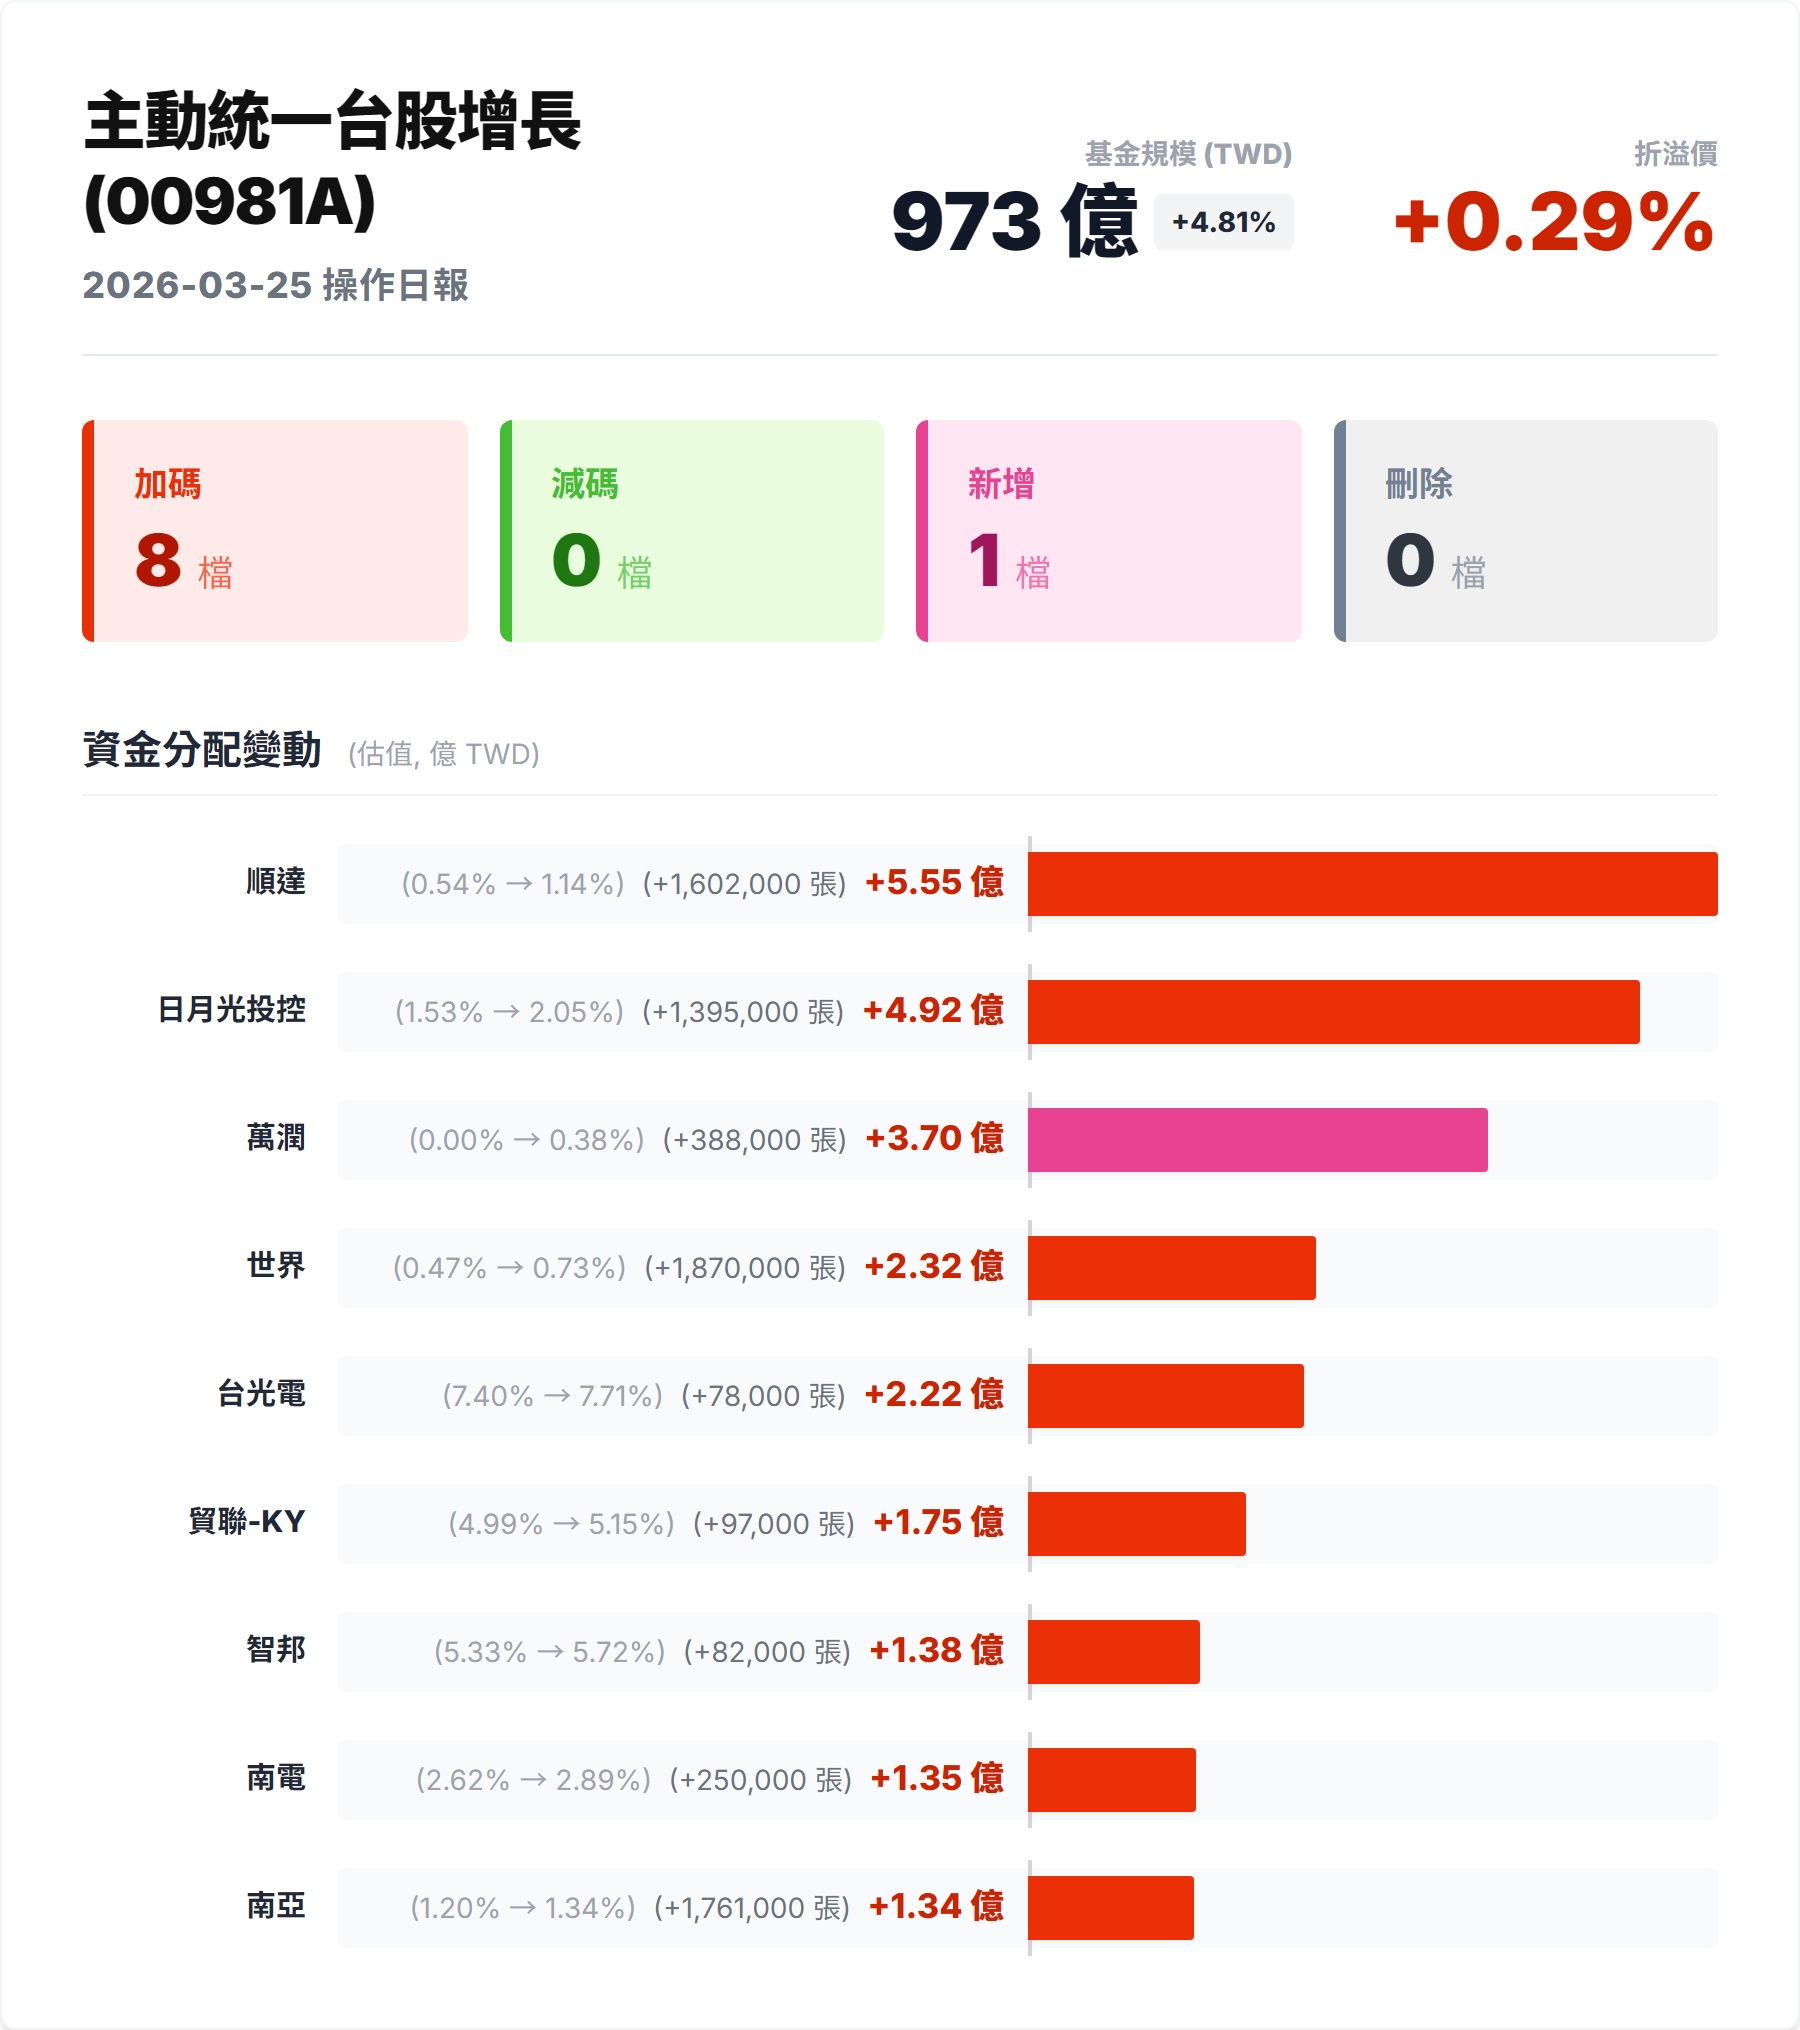
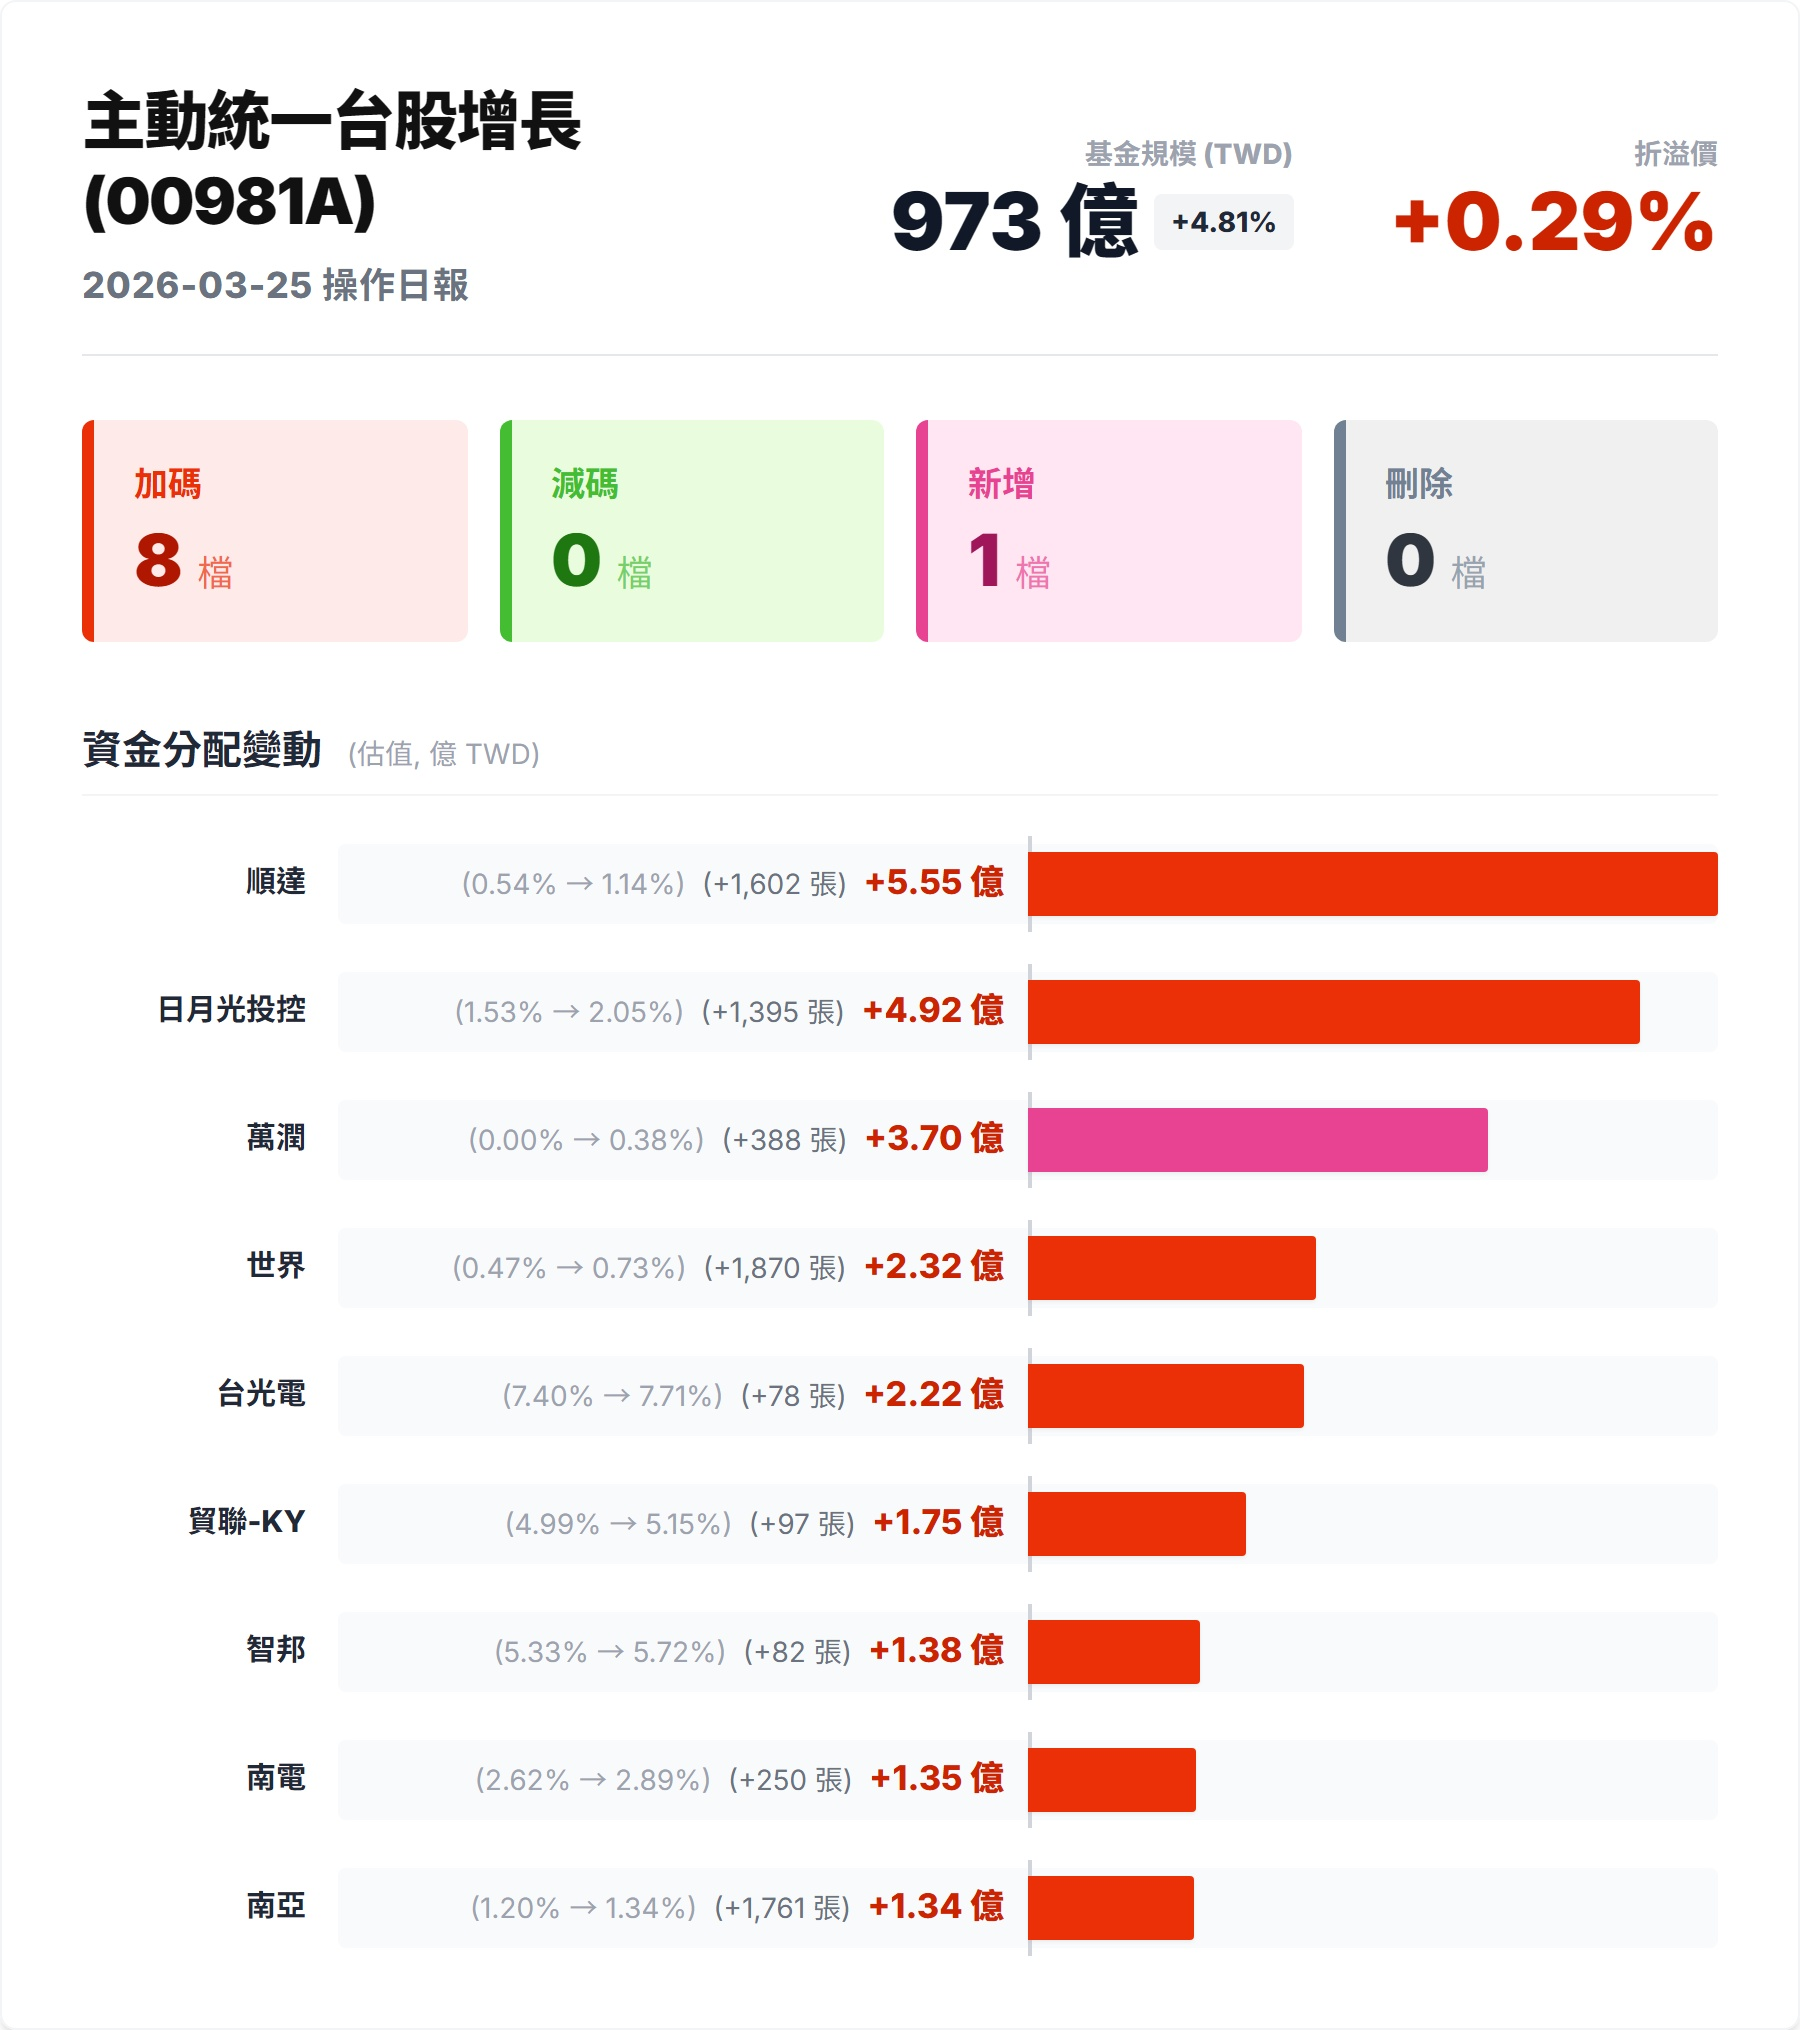
Convert raw shares to lots (除以1000) for UI display

diff --git a/scripts/generate_etf_summary.py b/scripts/generate_etf_summary.py
@@ -162,7 +162,7 @@ def render_html(title, data_curr, date_curr, data_prev, date_prev, out_html):
                     </div>
                     <div class="w-1/2 z-10 pl-3 flex items-center">
                         <span class="font-extrabold text-[17px] text-[#258C18] whitespace-nowrap">{fmt_money(r['am'])}</span>
-                        <span class="text-gray-500 text-sm font-medium ml-2 whitespace-nowrap">({sign}{r['sd']:,} 張)</span>
+                        <span class="text-gray-500 text-sm font-medium ml-2 whitespace-nowrap">({sign}{r['sd']//1000:,} 張)</span>
                         <span class="text-gray-400 text-sm ml-2 hidden sm:inline whitespace-nowrap">({r['pw']:.2f}% &rarr; {r['cw']:.2f}%)</span>
                     </div>
                 """
@@ -170,7 +170,7 @@ def render_html(title, data_curr, date_curr, data_prev, date_prev, out_html):
                 html += f"""
                     <div class="w-1/2 z-10 pr-3 flex items-center justify-end">
                         <span class="text-gray-400 text-sm mr-2 hidden sm:inline whitespace-nowrap">({r['pw']:.2f}% &rarr; {r['cw']:.2f}%)</span>
-                        <span class="text-gray-500 text-sm font-medium mr-2 whitespace-nowrap">({sign}{r['sd']:,} 張)</span>
+                        <span class="text-gray-500 text-sm font-medium mr-2 whitespace-nowrap">({sign}{r['sd']//1000:,} 張)</span>
                         <span class="font-extrabold text-[17px] text-[#CC2400] whitespace-nowrap">{fmt_money(r['am'])}</span>
                     </div>
                     <div class="w-1/2 flex justify-start z-10">
